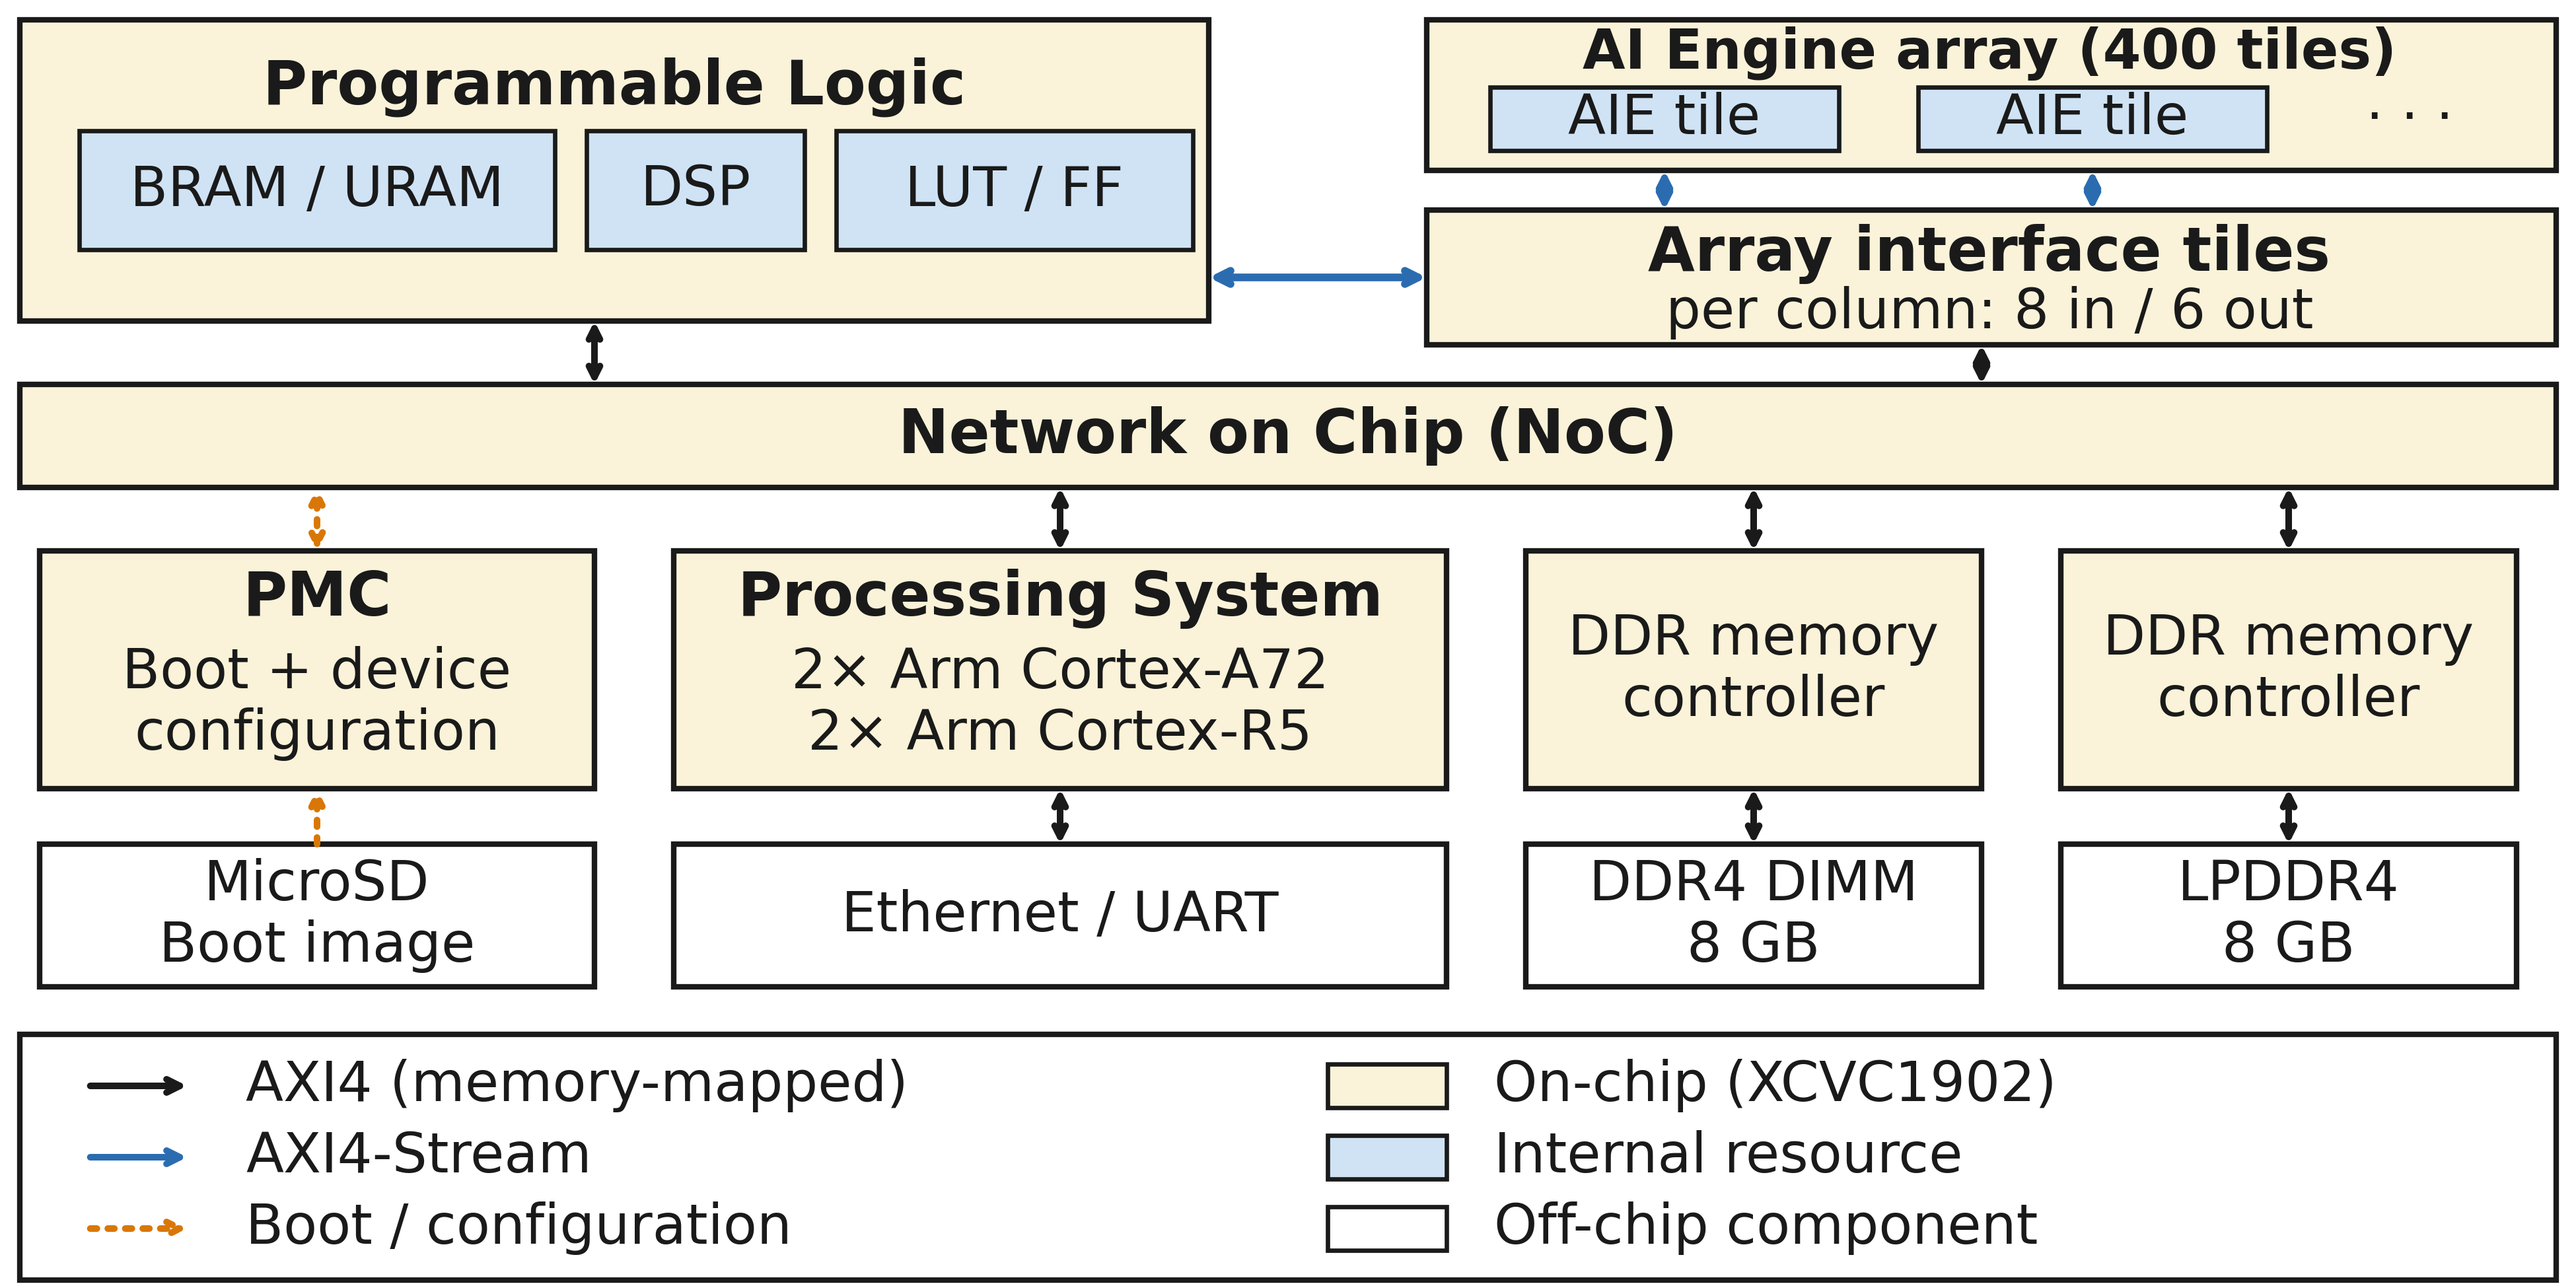
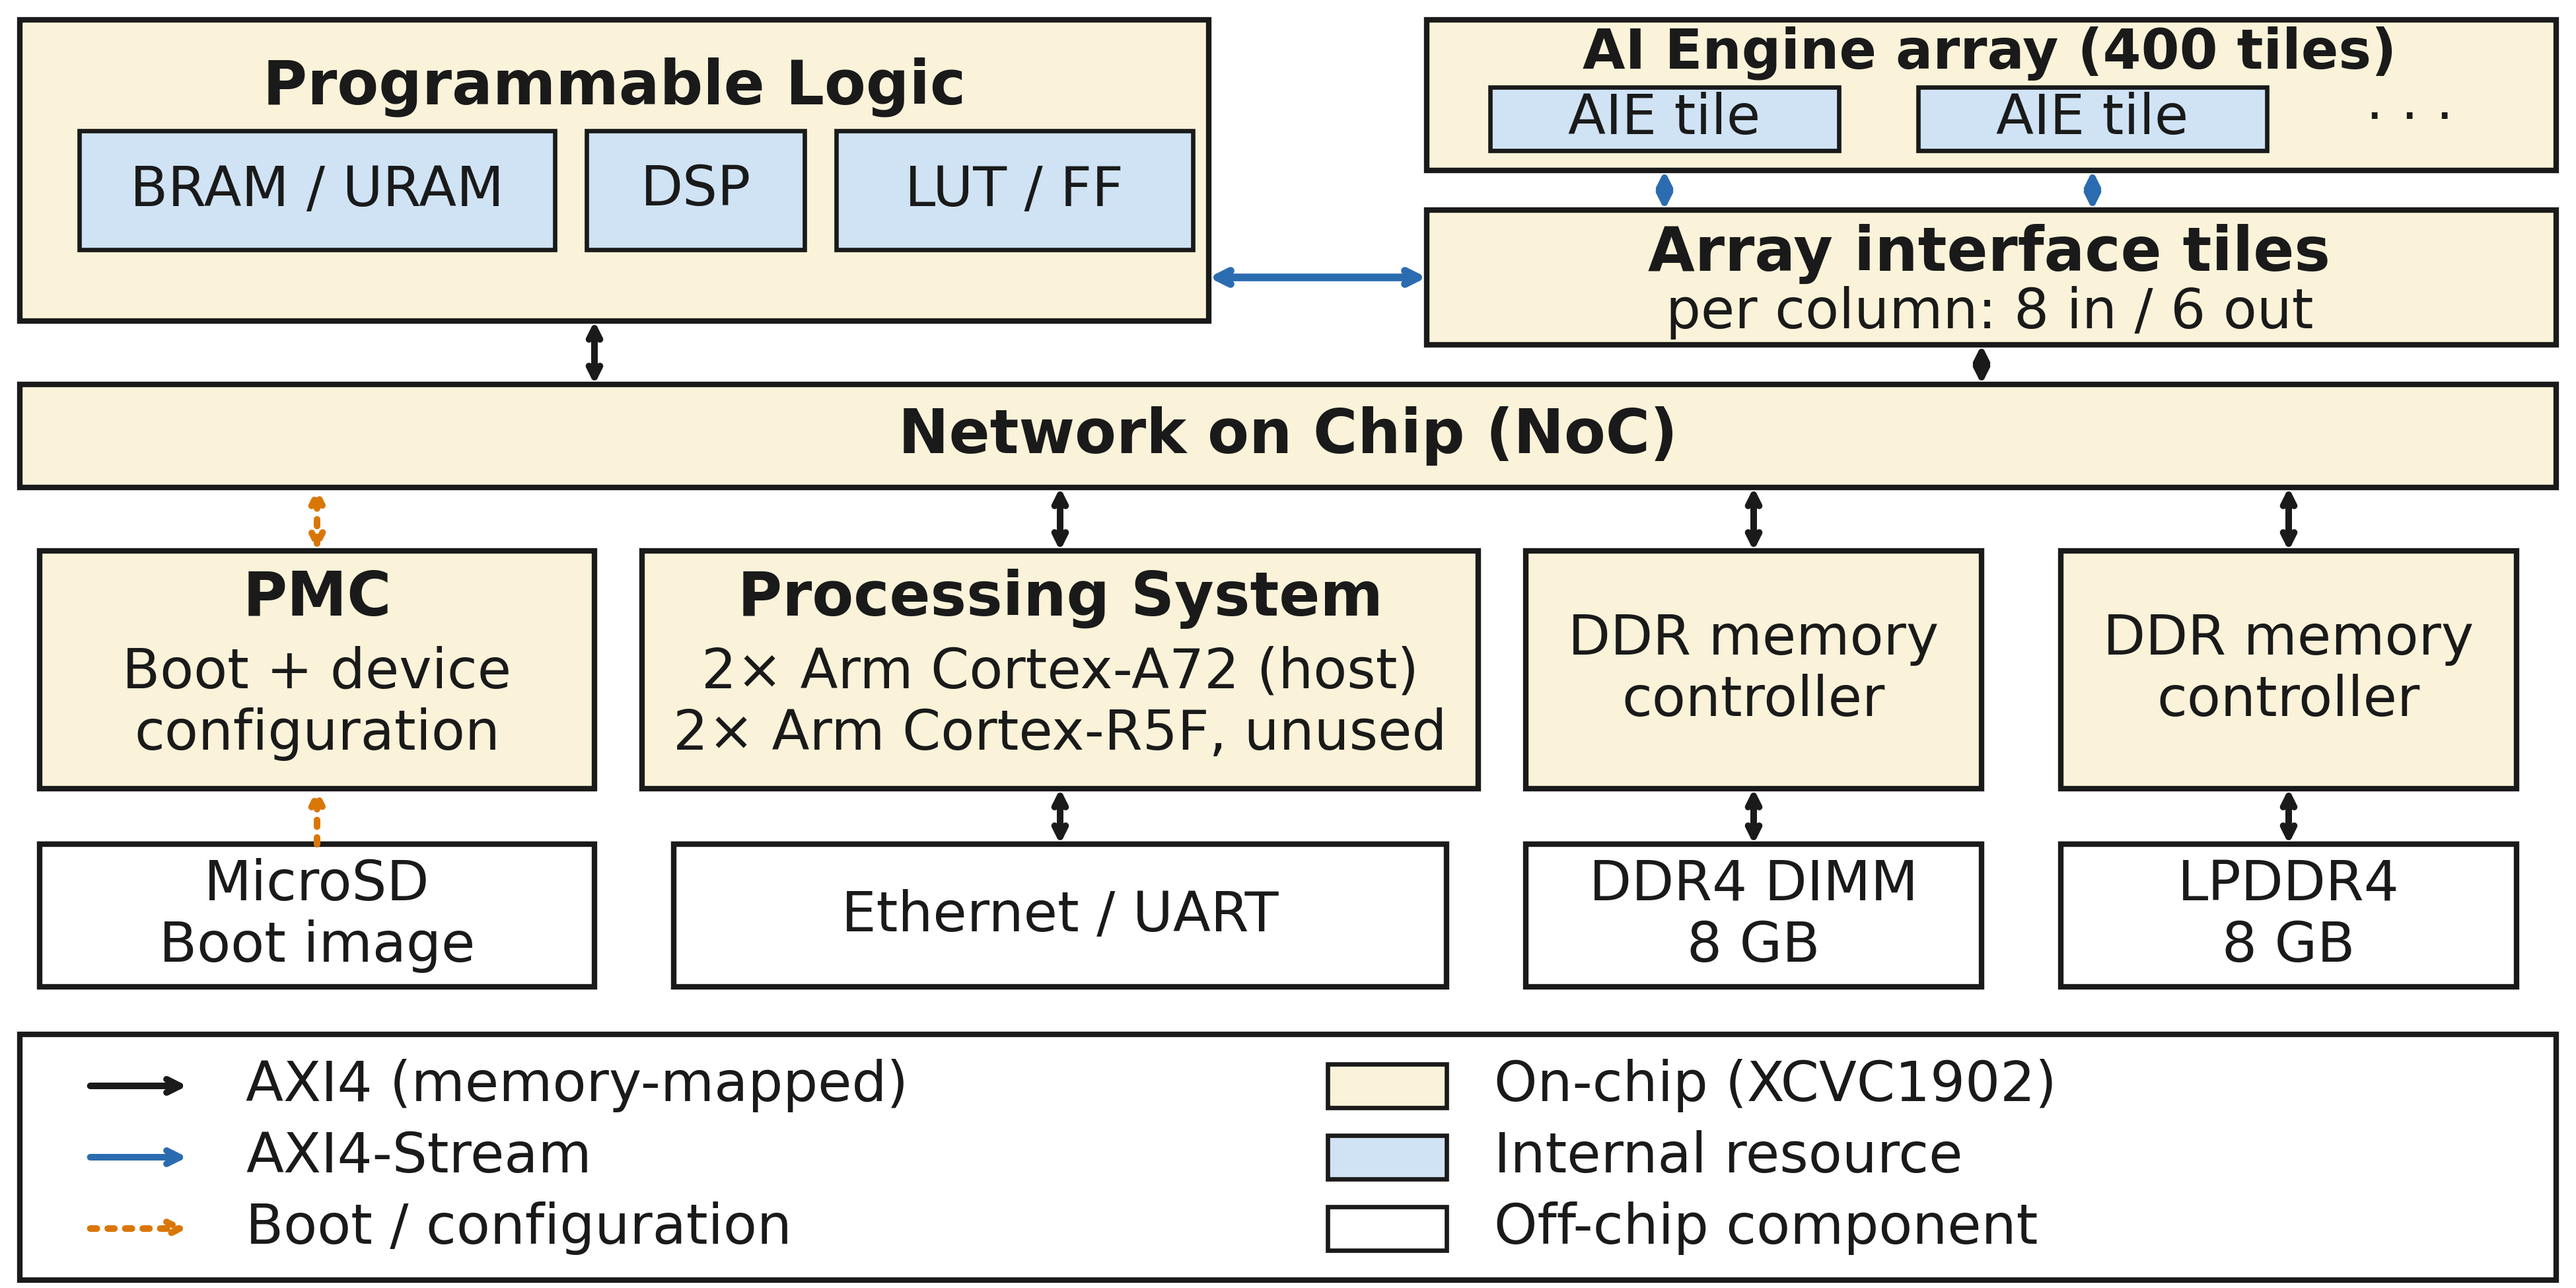
figs: mark the Cortex-R5F cores unused in the device schematic
The figure showed both A72 and R5F cores while the text discussed only the
A72 pair, which a reviewer read as a contradiction. The device really has
both, so label their roles instead of hiding the R5F.

Changed region(s): [[0.2482, 0.4308, 0.5895, 0.6154]]

diff --git a/scripts/make_vck190_schematic.py b/scripts/make_vck190_schematic.py
@@ -84,9 +84,9 @@ box(0.10, 1.26, 1.50, 1.86, fc=ONCHIP)
 txt(0.80, 1.74, "PMC", FST, "bold")
 txt(0.80, 1.475, "Boot + device\nconfiguration", FS)
 
-box(1.70, 1.26, 3.65, 1.86, fc=ONCHIP)
+box(1.62, 1.26, 3.73, 1.86, fc=ONCHIP)
 txt(2.675, 1.74, "Processing System", FST, "bold")
-txt(2.675, 1.475, "2× Arm Cortex-A72\n2× Arm Cortex-R5", FS)
+txt(2.675, 1.475, "2× Arm Cortex-A72 (host)\n2× Arm Cortex-R5F, unused", FS)
 
 for x0 in (3.85, 5.20):
     box(x0, 1.26, x0 + 1.15, 1.86, fc=ONCHIP)
